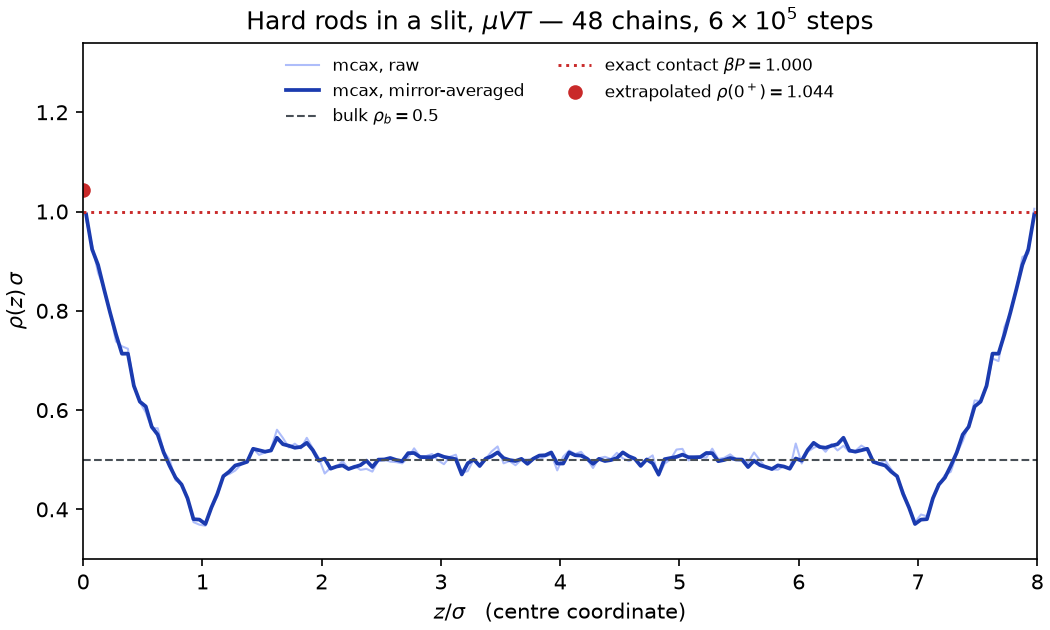
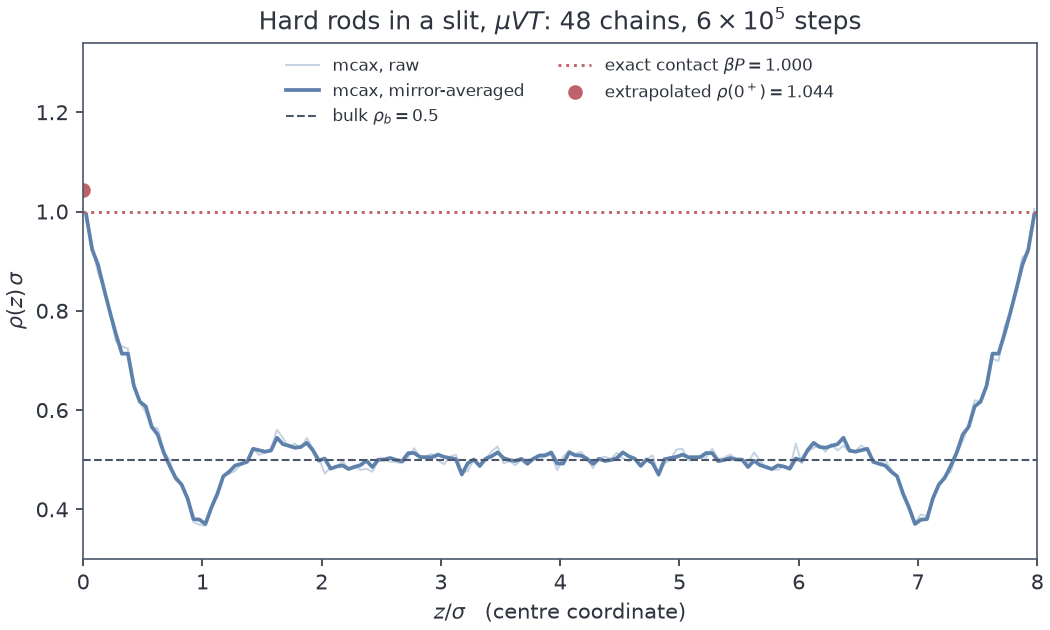
nord palette on the wall figure

diff --git a/examples/wall_profile.py b/examples/wall_profile.py
@@ -23,6 +23,11 @@ import matplotlib
 matplotlib.use("Agg")
 import matplotlib.pyplot as plt
 
+# nord ink, so the figure reads as part of the page rather than pasted onto it
+plt.rcParams.update({"text.color": "#2E3440", "axes.labelcolor": "#2E3440",
+                     "xtick.color": "#2E3440", "ytick.color": "#2E3440",
+                     "axes.edgecolor": "#4C566A", "font.size": 10})
+
 from mcax import make_spec, burn_and_sample, summary, format_summary, eos
 
 RHO_B = 0.5                       # target bulk density of the reservoir
@@ -47,14 +52,14 @@ print(f"contact rho(0+) = {contact:.4f}   exact beta P = {P:.4f}   "
       f"rel {abs(contact - P) / P:.4f}")
 
 fig, ax = plt.subplots(figsize=(7.0, 4.2), constrained_layout=True)
-ax.plot(res.z, res.rho, lw=1.0, alpha=0.45, color="#4C6EF5",
+ax.plot(res.z, res.rho, lw=1.0, alpha=0.45, color="#81A1C1",
         label="mcax, raw")
-ax.plot(res.z, rho_sym, lw=1.8, color="#1B3BAF", label="mcax, mirror-averaged")
-ax.axhline(RHO_B, ls="--", lw=1.0, color="#495057",
+ax.plot(res.z, rho_sym, lw=1.8, color="#5E81AC", label="mcax, mirror-averaged")
+ax.axhline(RHO_B, ls="--", lw=1.0, color="#4C566A",
            label=rf"bulk $\rho_b = {RHO_B}$")
-ax.axhline(P, ls=":", lw=1.4, color="#C92A2A",
+ax.axhline(P, ls=":", lw=1.4, color="#BF616A",
            label=rf"exact contact $\beta P = {P:.3f}$")
-ax.plot([0.0], [contact], "o", ms=6, color="#C92A2A",
+ax.plot([0.0], [contact], "o", ms=6, color="#BF616A",
         label=rf"extrapolated $\rho(0^+) = {contact:.3f}$")
 
 ax.set_xlabel(r"$z / \sigma$   (centre coordinate)")
